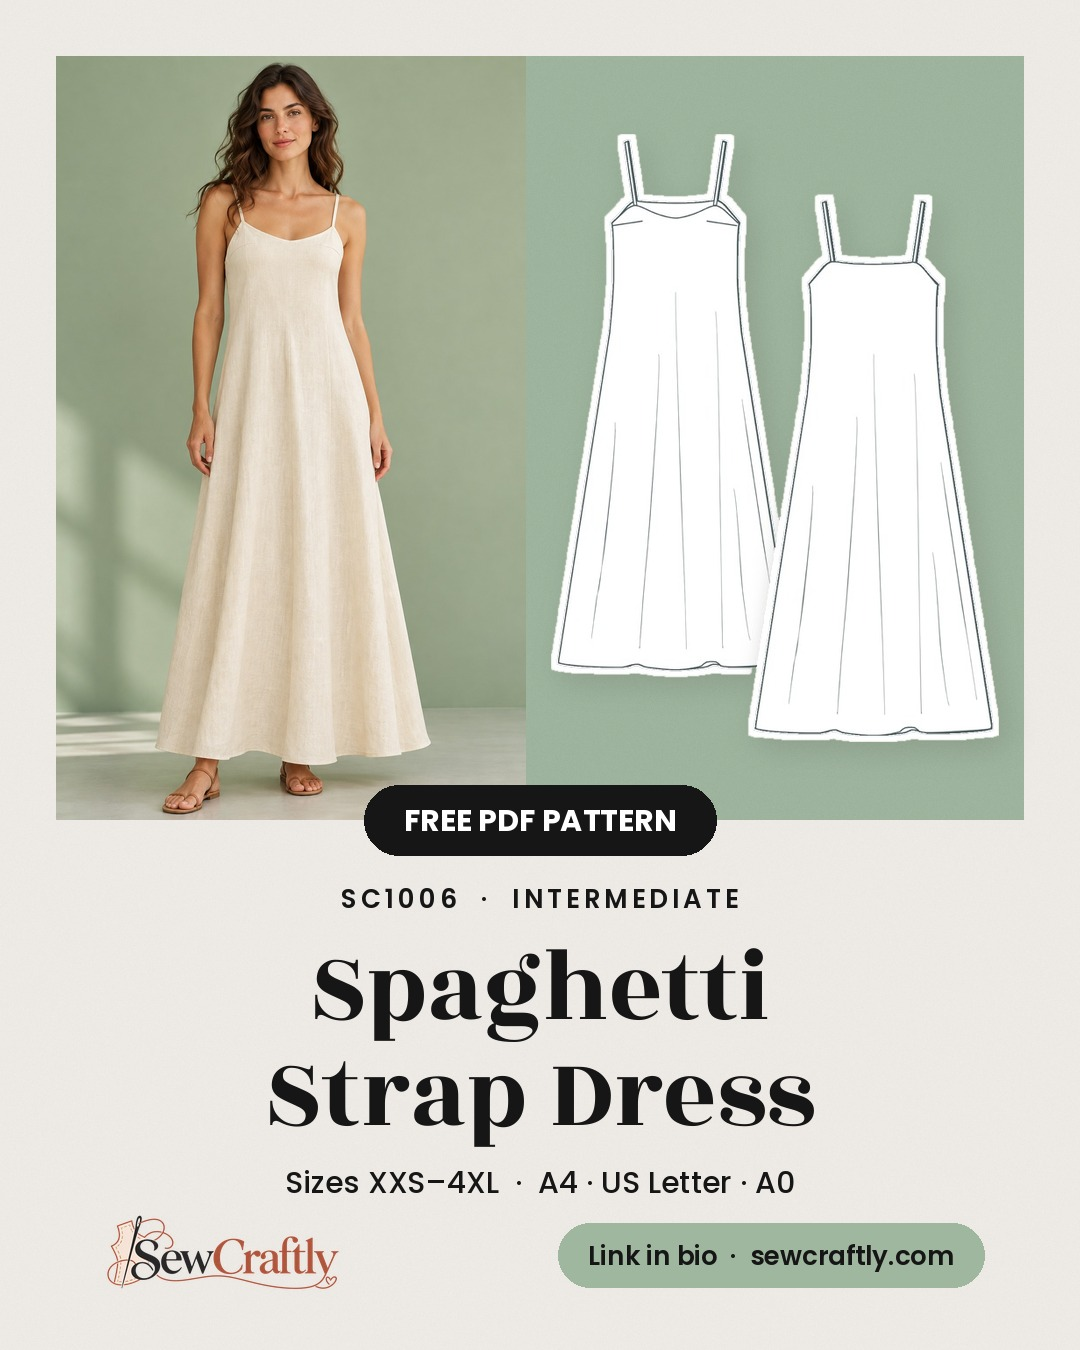
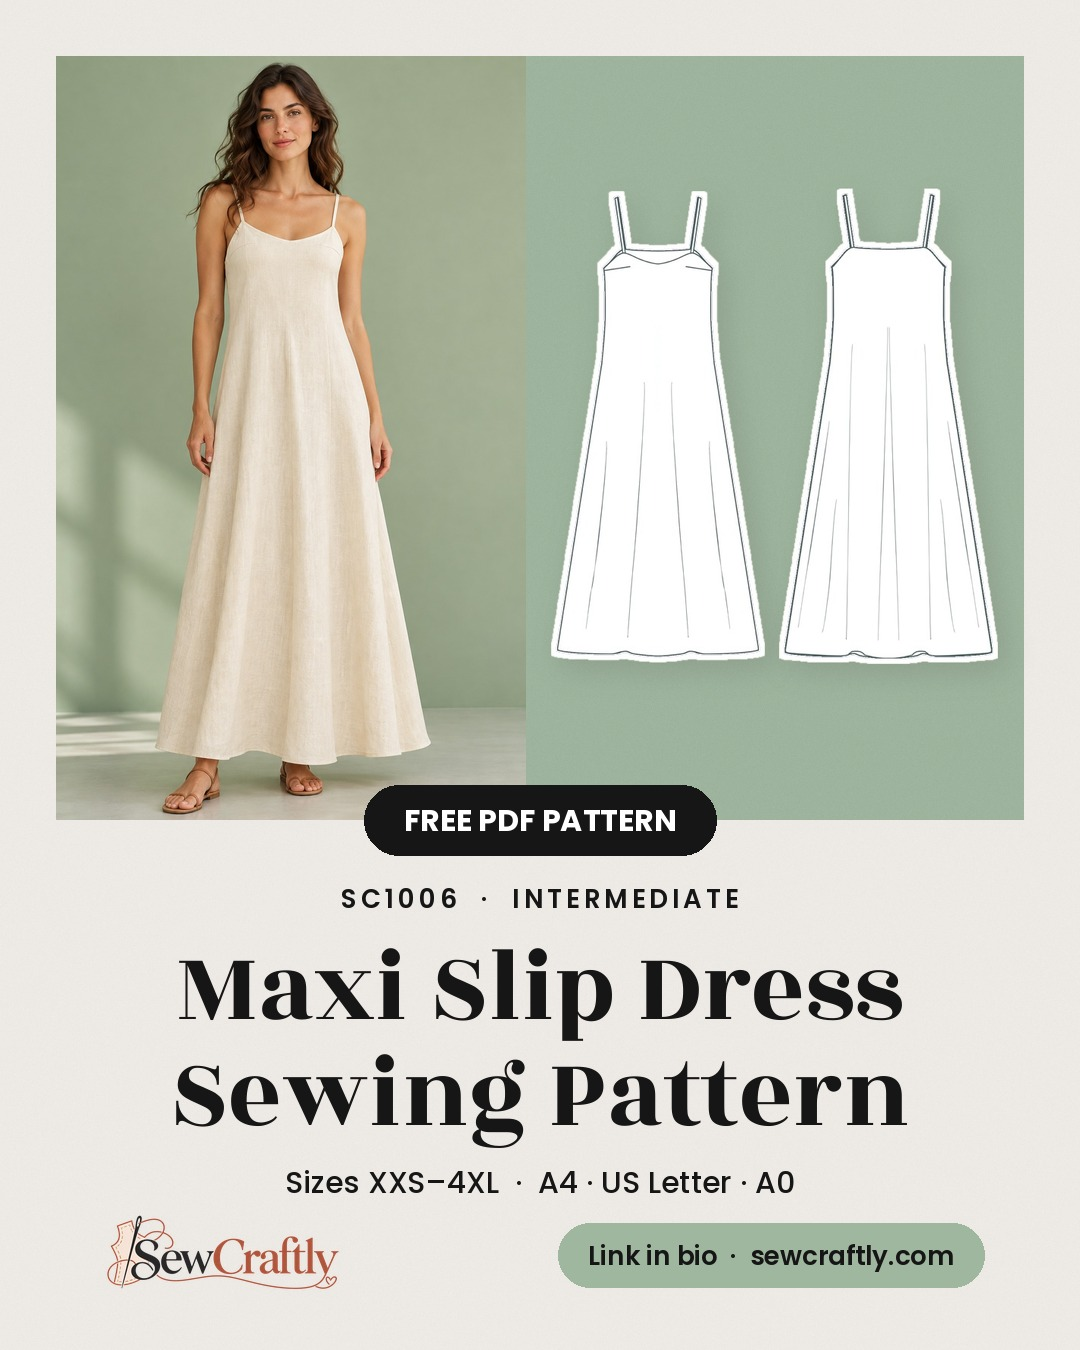
Social post: separate front/back sketches, keyword headline
Claude-Session: https://claude.ai/code/session_01GKt2ymHtUEYpXr1MYkju7D

Changed region(s): [[0.4889, 0.0933, 0.9472, 0.56], [0.1528, 0.6844, 0.8556, 0.8711], [0.7944, 0.28, 0.825, 0.3111]]

diff --git a/tools/social/gen.py b/tools/social/gen.py
@@ -19,6 +19,9 @@ ap.add_argument('--code', required=True); ap.add_argument('--sizes', default='XX
 ap.add_argument('--level', default=''); ap.add_argument('--photo', default=None)
 ap.add_argument('--style', default='split', choices=['split', 'photo', 'sketch'])
 ap.add_argument('--fabric', default='')
+ap.add_argument('--keyword', default='', help='search keyword shown as the headline, e.g. "Maxi Slip Dress"; the second line is always "Sewing Pattern"')
+ap.add_argument('--axes', default='', help='"FRONT_X,BACK_X": centre lines of the front (left) and back (right) sketch inside the cover sticker; each is rebuilt by mirroring its visible half so they no longer overlap')
+ap.add_argument('--front', default=None); ap.add_argument('--back', default=None)
 ap.add_argument('--out', required=True); ap.add_argument('--fonts', default='gf/ofl')
 ap.add_argument('--logo', default=os.path.join(HERE, '..', '..', 'brand', 'sewcraftly-logo.png'))
 A = ap.parse_args()
@@ -41,6 +44,19 @@ inside = fl.point(lambda v: 0 if v == 128 else 255).filter(ImageFilter.MinFilter
 sticker = reg.copy(); sticker.putalpha(inside); sticker = sticker.crop(inside.point(lambda v: 255 if v > 128 else 0).getbbox())
 strip = cov.crop((1165, 5, 1195, 795)); px = list(strip.get_flattened_data() if hasattr(strip, 'get_flattened_data') else strip.getdata())
 BAND = tuple(int(statistics.median(c[i] for c in px)) for i in range(3))
+
+def _mirror(im, ax, keep_left):
+    half = im.crop((0, 0, ax, im.height)) if keep_left else im.crop((ax, 0, im.width, im.height))
+    out = Image.new('RGBA', (2 * half.width, im.height))
+    if keep_left: out.paste(half, (0, 0)); out.paste(half.transpose(Image.FLIP_LEFT_RIGHT), (half.width, 0))
+    else: out.paste(half.transpose(Image.FLIP_LEFT_RIGHT), (0, 0)); out.paste(half, (half.width, 0))
+    return out.crop(out.getbbox())
+PAIR = None
+if A.front and A.back:
+    PAIR = [Image.open(A.front).convert('RGBA'), Image.open(A.back).convert('RGBA')]
+elif A.axes:
+    fx, bx = [int(v) for v in A.axes.split(',')]
+    PAIR = [_mirror(sticker, fx, True), _mirror(sticker, bx, False)]
 
 def fit(img, mw, mh):
     s = min(mw / img.width, mh / img.height); return img.resize((int(img.width * s), int(img.height * s)), Image.LANCZOS)
@@ -81,8 +97,16 @@ def style_split():
         pw = 470
         ph = cover_crop(Image.open(A.photo).convert('RGB'), pw, hy1 - hy0, 0.35)
         im.paste(ph, (hx0, hy0))
-        s = fit(sticker, hx1 - hx0 - pw - 50, hy1 - hy0 - 90)
-        shadowed(im, s, (hx0 + pw + (hx1 - hx0 - pw - s.width) // 2, hy0 + (hy1 - hy0 - s.height) // 2))
+        if PAIR:
+            aw, ah, gap = hx1 - hx0 - pw - 50, hy1 - hy0 - 100, 14
+            sc = min((aw - gap) / (PAIR[0].width + PAIR[1].width), ah / max(p.height for p in PAIR))
+            ps = [p.resize((int(p.width * sc), int(p.height * sc)), Image.LANCZOS) for p in PAIR]
+            tw = ps[0].width + gap + ps[1].width; x = hx0 + pw + (hx1 - hx0 - pw - tw) // 2
+            base = hy0 + (hy1 - hy0 + max(p.height for p in ps)) // 2 - 12
+            for p in ps: shadowed(im, p, (x, base - p.height)); x += p.width + gap
+        else:
+            s = fit(sticker, hx1 - hx0 - pw - 50, hy1 - hy0 - 90)
+            shadowed(im, s, (hx0 + pw + (hx1 - hx0 - pw - s.width) // 2, hy0 + (hy1 - hy0 - s.height) // 2))
     else:
         s = fit(sticker, hx1 - hx0 - 120, hy1 - hy0 - 100)
         shadowed(im, s, (W // 2 - s.width // 2, hy0 + (hy1 - hy0 - s.height) // 2))
@@ -96,7 +120,7 @@ def style_split():
     # ---- title block ----
     meta = f"{A.code}" + (f"  ·  {A.level.upper()}" if A.level else '')
     ctext(d, 880, meta, POP('SemiBold', 26), spacing=4)
-    lines = split_title(d, A.name, ROZHA, 940)
+    lines = [A.keyword, 'Sewing Pattern'] if A.keyword else split_title(d, A.name, ROZHA, 940)
     tf = autosize(d, lines, ROZHA, 940, 104 if len(lines) == 2 else 110)
     y = 915
     for ln in lines:
